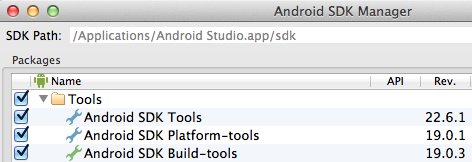
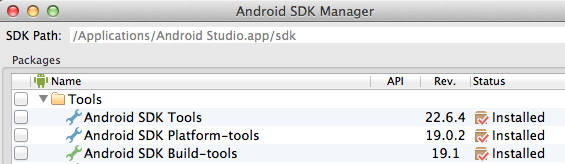
Changed to show latest versions

diff --git a/section1/README.md b/section1/README.md
@@ -95,7 +95,7 @@ apply plugin: 'android'
 
 android {
     compileSdkVersion 19
-    buildToolsVersion "19.0.3"
+    buildToolsVersion "19.1.0"
 
     defaultConfig {
         minSdkVersion 14
